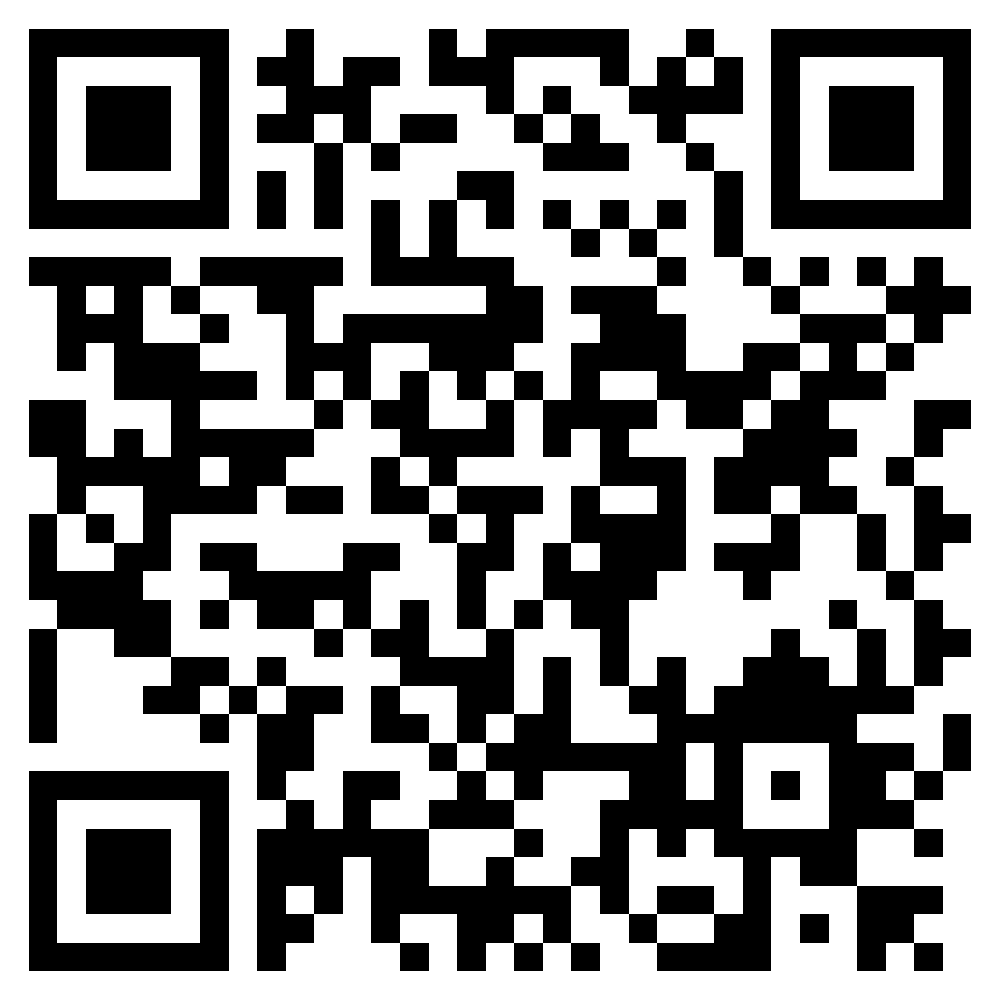
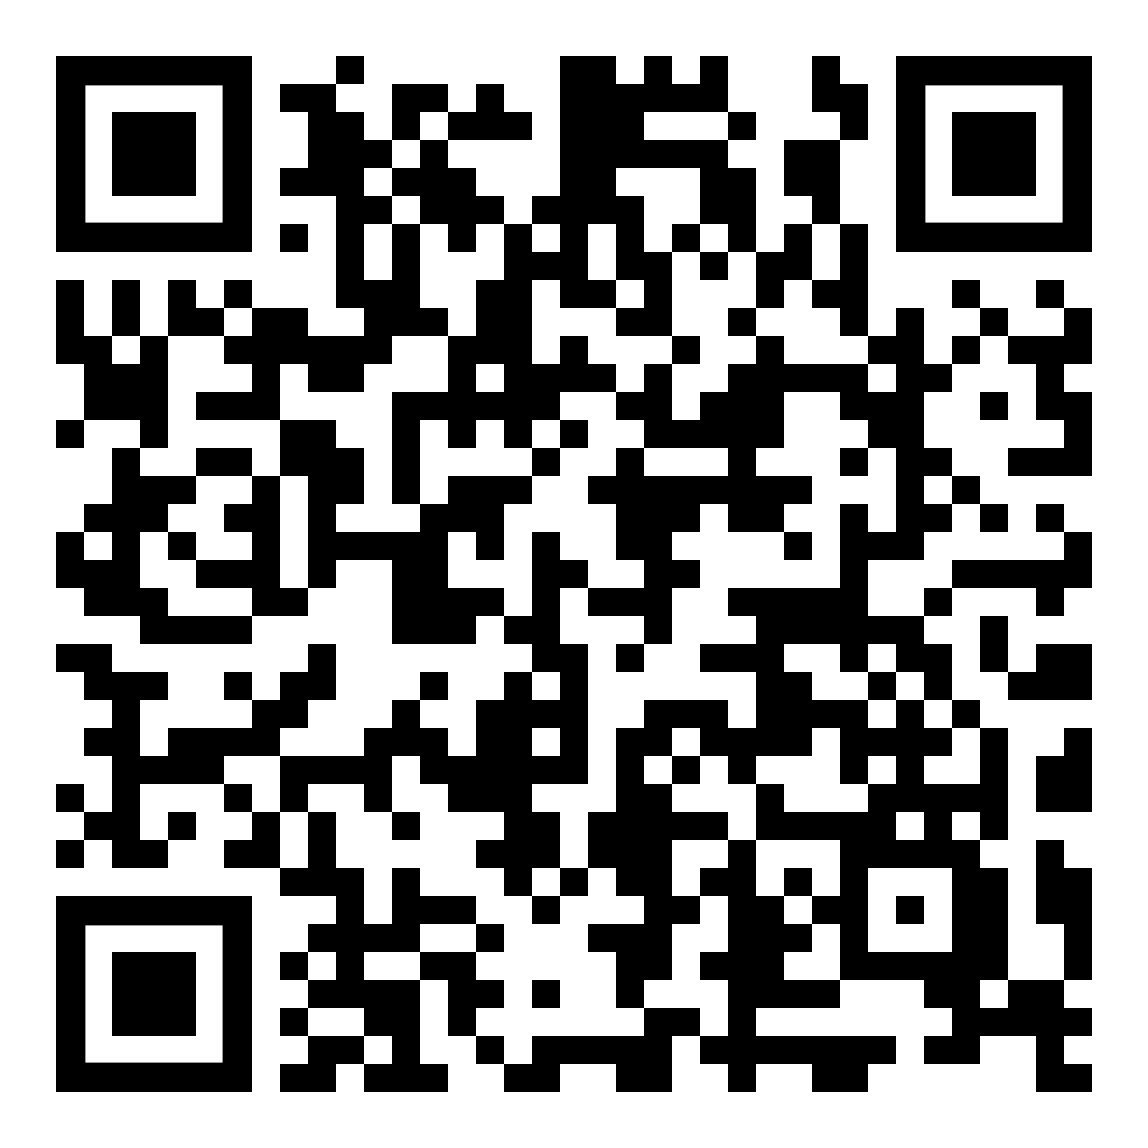
modified web app

diff --git a/login_react/src/Components/MobileAppPage.js b/login_react/src/Components/MobileAppPage.js
@@ -21,7 +21,7 @@ export function MobileAppPage () {
     };
 
     if (redirect) {
-        window.location.href = 'https://github.com/UNITA-Project/unita_mobile_app/releases/tag/0.1.0';
+        window.location.href = 'https://github.com/UNITA-Project/virtual-campus-apps/releases/tag/pre-release';
     }
 
     return (
